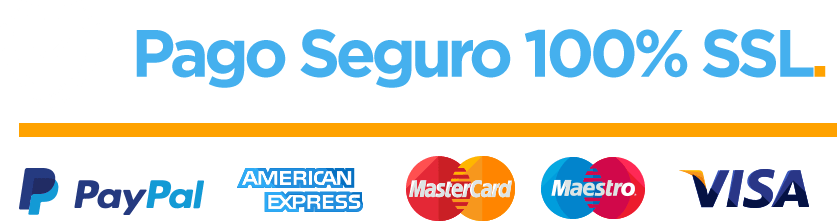
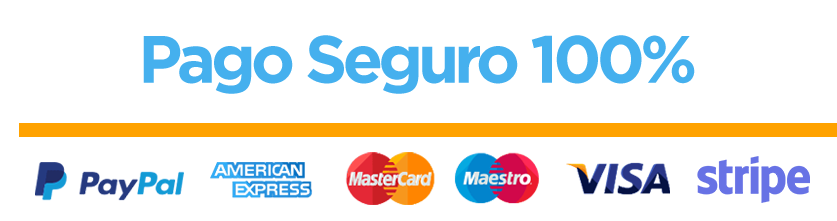
avances

Changed region(s): [[0.1553, 0.1357, 0.994, 0.4344], [0.2485, 0.6787, 0.994, 1.0], [0.0, 0.733, 0.2485, 0.9774]]

diff --git a/src/components/layouts/index-header/index.js b/src/components/layouts/index-header/index.js
@@ -68,12 +68,14 @@ class IndexHeaderLayout extends Component {
                                     <i className="fa fa-times-circle fa-2x text-white" onClick={this.hideHeader}/>
                                     <div className="f-video">
                                         <video
-                                            src={"https://firebasestorage.googleapis.com/v0/b/famosos-27f08.appspot.com/o/famosos%2Findex-banner-video.mp4?alt=media&token=97303a12-a5bc-4171-87fa-713dbb7196aa"}
                                             controls={false}
                                             autoPlay
                                             playsInline={true}
                                             loop={true}
-                                        />
+                                            muted
+                                        >
+                                            <source src={"https://firebasestorage.googleapis.com/v0/b/famosos-27f08.appspot.com/o/famosos%2Findex-banner-video.mp4?alt=media&token=97303a12-a5bc-4171-87fa-713dbb7196aa"} type="video/mp4"/>
+                                        </video>
                                     </div>
                                 </div>
                             </div>

diff --git a/src/components/containers/contract-checkout-summary/index.js b/src/components/containers/contract-checkout-summary/index.js
@@ -146,8 +146,6 @@ class ContractCheckoutSummary extends Component {
                             <small>{this.props.contractData.instructions}</small>
                         </div>
                         <hr/>
-                        <span>sadasdasd{JSON.stringify(this.props.currencyExchangeData.to)}</span>
-
                         <div className="total mt-4">
                             {
                                 this.props.currencyExchangeData.to !== "USD" && this.returnAproxLabel()
@@ -202,7 +200,7 @@ class ContractCheckoutSummary extends Component {
                             {this.returnActionButton()}
                         </div>
                         <div className="mt-4 mx-auto text-center">
-                            <img width="150px" src={"/assets/img/pago-seguro.png"} alt={"pago-seguro"}/>
+                            <img width="230px" src={"/assets/img/pago-seguro.png"} alt={"pago-seguro"}/>
                         </div>
                     </div>
                 </div>

diff --git a/src/components/layouts/hirings-card-section/index.js b/src/components/layouts/hirings-card-section/index.js
@@ -34,7 +34,7 @@ class HiringsCardSectionLayout extends Component {
         if (contract.status === 5) {
             return (
                 <button className="btn btn-outline-secondary" style={{width: "110px"}} onClick={this.goToPay.bind(this, contract.reference)}>
-                    <span className="d-md-block text-secondary">Ir a pagar</span>
+                    <span className="d-md-block text-secondary">Continuar</span>
                     <i className="fa fa-arrow-right text-secondary"/>
                 </button>
             )

diff --git a/src/components/containers/contract-currency-payment/index.js b/src/components/containers/contract-currency-payment/index.js
@@ -24,6 +24,8 @@ class ContractCurrencyPayment extends Component {
         if(nextProps.currencyExchangeData.to && nextProps.currencyExchangeData.to !== this.props.currencyExchangeData.to && !nextProps.isLoading){
             this.setState({
                 currency: nextProps.currencyExchangeData.to
+            }, () => {
+                this.props.onSelectCurrency(this.state.currency);
             })
         }
     }

diff --git a/src/components/containers/contract-modal/index.js b/src/components/containers/contract-modal/index.js
@@ -337,7 +337,7 @@ class ContractModal extends Component {
                       />
                   ) : (
                       <span className="text-white">
-                    IR AL PAGO
+                    Continuar
                     <i className="fa fa-arrow-right float-right text-white ml-2"
                        style={{fontSize: "26px", position: "absolute"}}/>
                   </span>
